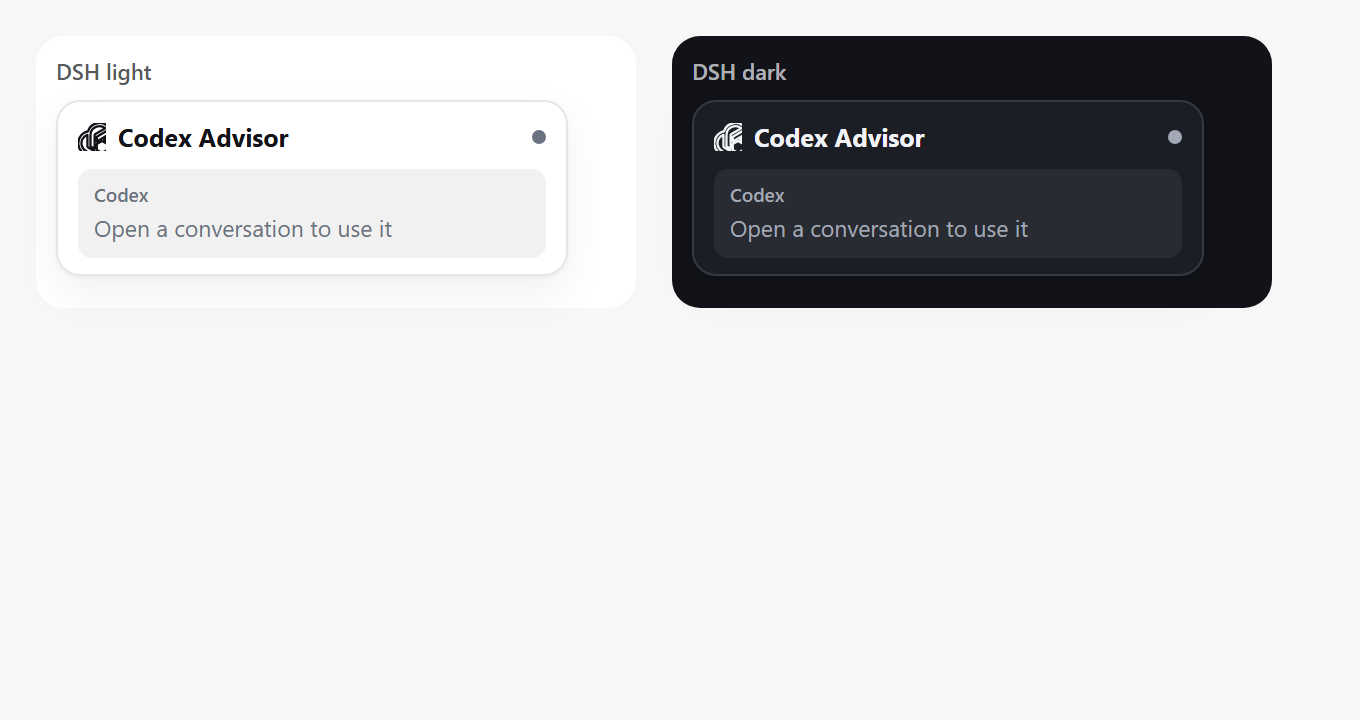
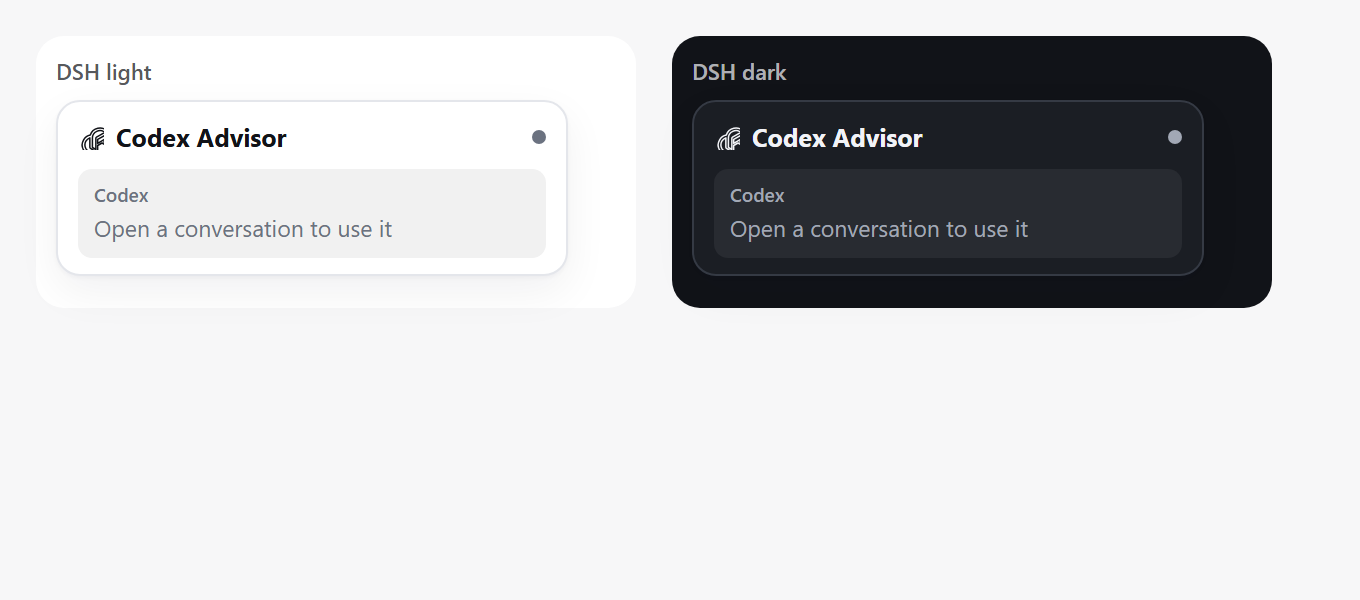
fix: align Advisor mark to 13px Memory spec and reduce knot density; 0.7.7

Changed region(s): [[0.4941, 0.03, 0.9574, 0.54], [0.0309, 0.09, 0.4015, 0.42], [0.9265, 0.06, 0.9574, 0.09]]

diff --git a/client.js b/client.js
@@ -1036,40 +1036,43 @@ window.__ModuleLoader__.load({
         }, threads.map((thread) => chip(thread, false))));
     }
 
-    // A monochrome ChatGPT mark: the official knot path, outlined with
-    // currentColor (never a fixed fill), so the same icon is black on light
-    // surfaces and white on dark surfaces.
+    // A monochrome ChatGPT mark. The official knot path is far denser than
+    // the sparse three-layer Memory mark, so at a 13px box it reads as a solid
+    // blob at stroke 1.6. Scale it to 20/24 inside the same 24-unit viewBox
+    // (more whitespace) and thin the stroke to 0.9: same 13px footprint and
+    // currentColor inheritance, but visual weight close to Memory.
     const CHATGPT_MARK_PATH = 'M22.2819 9.8211a5.9847 5.9847 0 0 0-.5157-4.9108 6.0462 6.0462 0 0 0-6.5098-2.9A6.0651 6.0651 0 0 0 4.9807 4.1818a5.9847 5.9847 0 0 0-3.9977 2.9 6.0462 6.0462 0 0 0 .7427 7.0966 5.98 5.98 0 0 0 .511 4.9107 6.051 6.051 0 0 0 6.5146 2.9001A5.9847 5.9847 0 0 0 13.2599 24a6.0557 6.0557 0 0 0 5.7718-4.2058 5.9894 5.9894 0 0 0 3.9977-2.9001 6.0557 6.0557 0 0 0-.7475-7.073zM13.2599 22.4292a4.4755 4.4755 0 0 1-2.8764-1.0408l.1419-.0804 4.7783-2.7582a.7948.7948 0 0 0 .3927-.6813v-6.7369l2.02 1.1686a.071.071 0 0 1 .038.052v5.5826a4.504 4.504 0 0 1-4.4945 4.4943zm-9.6607-4.1254a4.4708 4.4708 0 0 1-.5346-3.0137l.142.0852 4.783 2.7582a.7712.7712 0 0 0 .7806 0l5.8428-3.3685v2.3324a.0804.0804 0 0 1-.0332.0615L9.74 19.9502a4.4992 4.4992 0 0 1-6.1408-1.6464zM2.3408 7.8956a4.485 4.485 0 0 1 2.3655-1.9728V11.6a.7664.7664 0 0 0 .3879.6765l5.8144 3.3543-2.0201 1.1685a.0757.0757 0 0 1-.071 0l-4.8303-2.7865A4.504 4.504 0 0 1 2.3408 7.8956zm16.5963 3.8558L13.1038 8.364 15.1192 7.2a.0757.0757 0 0 1 .071 0l4.8303 2.7913a4.4944 4.4944 0 0 1-.6765 8.1042v-5.6772a.79.79 0 0 0-.407-.667zm2.0107-3.0231l-.142-.0852-4.7735-2.7818a.7759.7759 0 0 0-.7854 0L9.409 9.2297V6.8974a.0662.0662 0 0 1 .0284-.0615l4.8303-2.7866a4.4992 4.4992 0 0 1 6.6802 4.66zM8.3065 12.863l-2.02-1.1638a.0804.0804 0 0 1-.038-.0567V6.0742a4.4992 4.4992 0 0 1 7.3757-3.4537l-.142.0805L8.704 5.459a.7948.7948 0 0 0-.3927.6813zm1.0976-2.3654l2.602-1.4998 2.6069 1.4998v2.9994l-2.5974 1.4997-2.6067-1.4997Z';
 
     function AdvisorMark() {
       return h('span', {
         'aria-hidden': true,
         style: {
-          display: 'inline-flex',
+          display: 'flex',
           alignItems: 'center',
           justifyContent: 'center',
-          flex: '0 0 14px',
-          width: 14,
-          height: 14,
+          flex: '0 0 13px',
+          width: 13,
+          height: 13,
           lineHeight: 0,
           color: 'var(--dsw-alias-label-primary)',
         },
       }, h('svg', {
-        width: 14,
-        height: 14,
+        width: 13,
+        height: 13,
         viewBox: '0 0 24 24',
         fill: 'none',
         role: 'img',
         'aria-label': 'ChatGPT',
         style: { display: 'block' },
-      }, h('path', {
-        d: CHATGPT_MARK_PATH,
-        fill: 'none',
-        stroke: 'currentColor',
-        strokeWidth: 1.15,
-        strokeLinejoin: 'round',
-        strokeLinecap: 'round',
-      })));
+      }, h('g', { transform: 'translate(2 2) scale(0.833333)' },
+        h('path', {
+          d: CHATGPT_MARK_PATH,
+          fill: 'none',
+          stroke: 'currentColor',
+          strokeWidth: 0.9,
+          strokeLinejoin: 'round',
+          strokeLinecap: 'round',
+        }))));
     }
 
     function CodexCard(props) {
@@ -1726,6 +1729,7 @@ window.__ModuleLoader__.load({
             ThreadRail,
             TurnCard,
             AdvisorMark,
+            CHATGPT_MARK_PATH,
             en,
             SessionProbe,
             getActiveSession,

diff --git a/README.md b/README.md
@@ -4,7 +4,7 @@ A persistent **Codex advisor** for [DeepSeek Harness](https://github.com/deepsee
 
 One DSH session can keep several labeled Codex threads. Continue a thread for the same objective, or start another for a different aspect or model class. Codex runs through the official `codex app-server` protocol under your existing ChatGPT/Codex login, so it uses your Codex quota rather than a separate API key.
 
-> **Current release: 0.7.6.** Tested with DSH Desktop `0.2.1-rc.5` on Windows 11 and Codex CLI `0.166.0-alpha.5.1`. See [Compatibility](#compatibility).
+> **Current release: 0.7.7.** Tested with DSH Desktop `0.2.1-rc.5` on Windows 11 and Codex CLI `0.166.0-alpha.5.1`. See [Compatibility](#compatibility).
 
 ## What you get
 
@@ -32,7 +32,7 @@ The plugin is not affiliated with OpenAI or DeepSeek. It uses your existing Code
 Install the release tarball through DSH's plugin manager:
 
 ```text
-https://github.com/Awenforever/dsh-codex-advisor/archive/refs/tags/v0.7.6.tar.gz
+https://github.com/Awenforever/dsh-codex-advisor/archive/refs/tags/v0.7.7.tar.gz
 ```
 
 After installation, add/keep the `codex-advisor` bundle and restart DSH if the Host requests it. A client-bundle change may require a full DSH quit/reopen or a page reload; the Codex tab and sidebar card appear after the client bundle is reloaded.
@@ -40,7 +40,7 @@ After installation, add/keep the `codex-advisor` bundle and restart DSH if the H
 ### Web / CLI profile
 
 ```powershell
-dsh plugin --profile <profile> add https://github.com/Awenforever/dsh-codex-advisor/archive/refs/tags/v0.7.6.tar.gz
+dsh plugin --profile <profile> add https://github.com/Awenforever/dsh-codex-advisor/archive/refs/tags/v0.7.7.tar.gz
 ```
 
 Then restart that DSH profile. For the app-managed `desktop` profile, use the app's plugin manager instead of editing the profile by hand.
